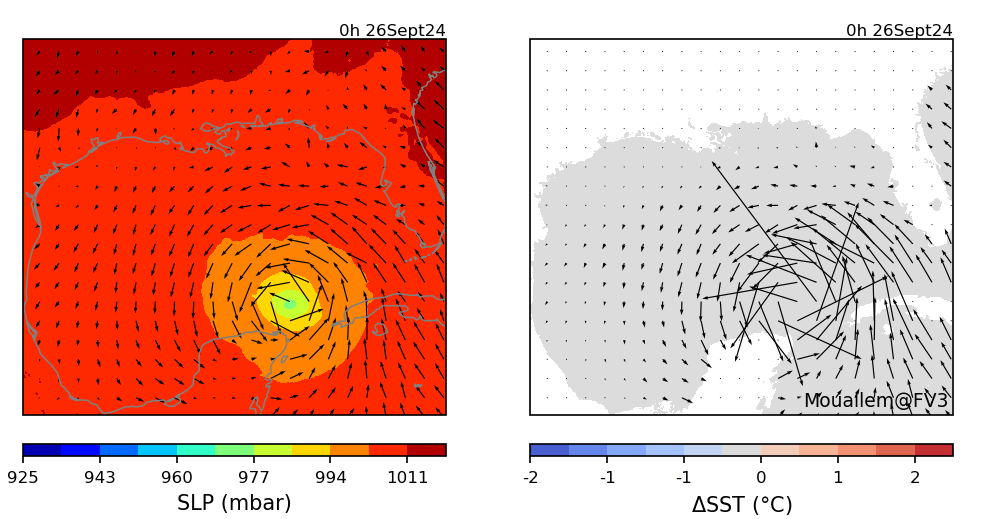
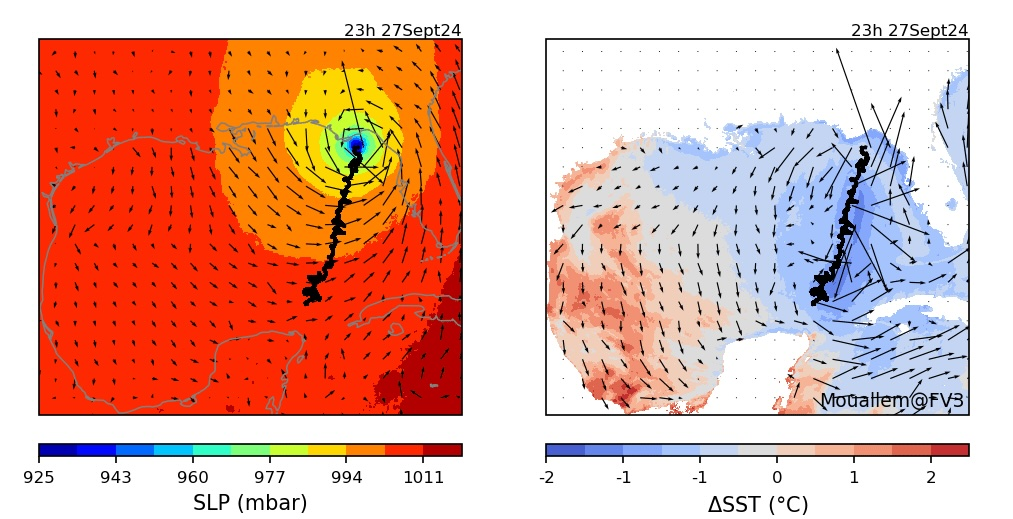
more updates

diff --git a/assets/scss/custom.scss b/assets/scss/custom.scss
@@ -1,0 +1,11 @@
+.dropdown-menu,
+nav#navbar-main li.nav-item {
+  font-size: 20px;
+  font-weight: bold;
+}
+
+.article-banner {
+  width: 60%;
+  height: auto;
+  margin: 0 auto;
+}

diff --git a/content/research/shield-mom6/index copy.md b/content/research/shield-mom6/index copy.md
@@ -21,7 +21,7 @@ banner:
   # image: 'featured_old.png'
   image: 'helene-slp-sst.gif'
   caption: ""
-  focal_point: 'center'
+  focal_point: 'smart'
   
 
 # links: []
@@ -45,7 +45,7 @@ SHiELD physics parametrization suite, while the ocean component is the latest
 version of MOM, supporting kilometer-scale high-resolution and regional
 applications.
 
-## Hurricane Helene (2024)
+## Hurricane Helene (2024) in the coupled model
 
 Validation is demonstrated through a suite of experiments, including idealized
 hurricane simulations and a realistic North Atlantic case study featuring

diff --git a/content/authors/admin/_index.md b/content/authors/admin/_index.md
@@ -14,9 +14,9 @@ organizations:
   - name: GFDL / NOAA
     url: https://www.gfdl.noaa.gov/
 
-bio: >-
-  Computational scientist working on GFDL's FV3 dynamical core: grid nesting,
-  the Duo-Grid, and coupled atmosphere-ocean modeling.
+# bio: >-
+#   Computational scientist working on GFDL's FV3 dynamical core: grid nesting,
+#   the Duo-Grid, and coupled atmosphere-ocean modeling.
 
 interests:
   - High Performance Computing

diff --git a/content/_index.md b/content/_index.md
@@ -124,9 +124,9 @@ sections:
       view: card
 
   - block: collection
-    id: publications
+    id: Publications
     content:
-      title: Publications
+      title: Recent Publications
       text: |-
         {{% callout note %}}
         Quickly discover relevant content by [filtering publications](./publication/).

diff --git a/content/research/_index.md b/content/research/_index.md
@@ -1,6 +1,6 @@
 ---
 title: Research
-summary: Research projects in atmospheric dynamical cores, coupled Earth system modeling, and computational fluid dynamics.
+# summary: Research projects in atmospheric dynamical cores, coupled Earth system modeling, and computational fluid dynamics.
 cms_exclude: true
 
 # View.
